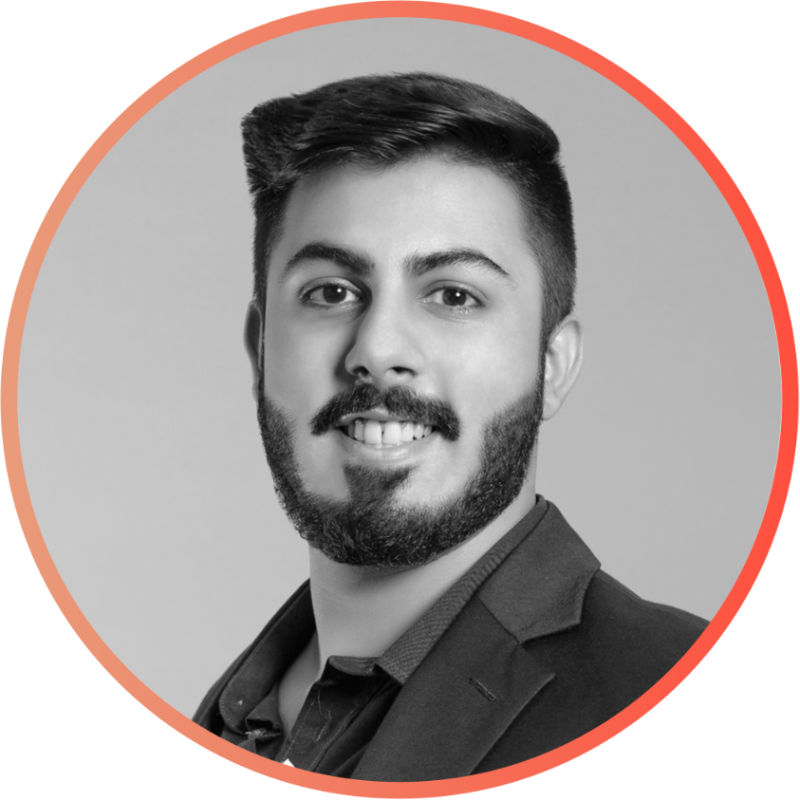
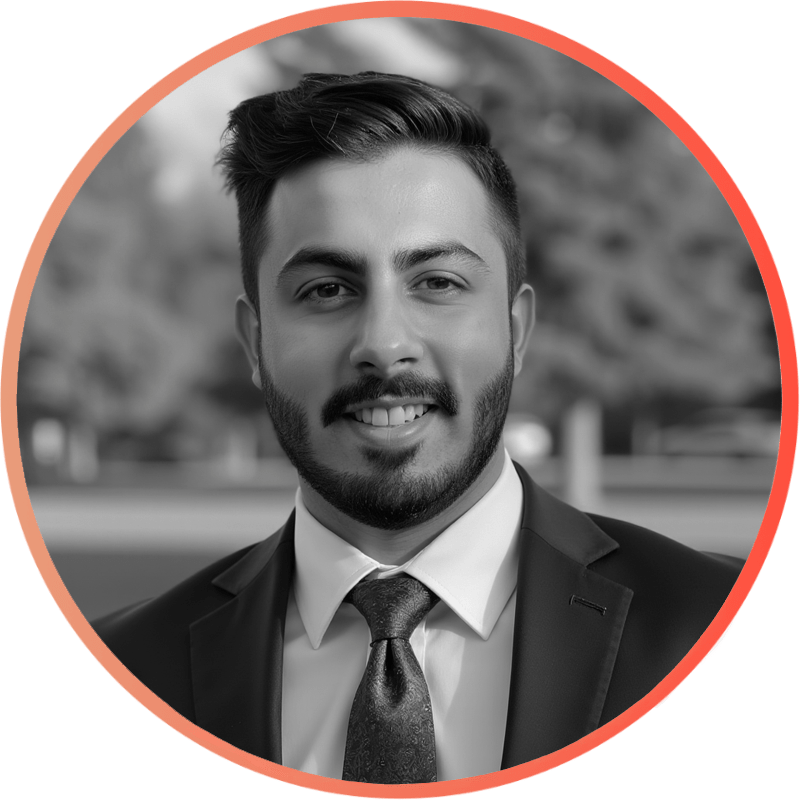
Simple textual changes

diff --git a/src/components/pages/HomePage/Data.ts b/src/components/pages/HomePage/Data.ts
@@ -30,11 +30,11 @@ import team6 from 'images/team6.png'
 export const heroSection = {
     lightText: true,
     lightTextDesc: true,
-    headline: 'solution leading you to your dream university.',
+    headline: 'platform guiding you toward your dream university.',
     highlight: ' one-stop ',
     description:
-        'Gradvisors® is a professional development organisation, providing tailored academic & career counselling solutions to aspiring students.',
-    buttonLabel: 'Get Started',
+        'Gradvisors™ is Pakistan’s 1st professional development organisation, offering tailored academic and career counselling to help students secure university admissions abroad and navigate Canadian immigration with confidence.',
+    buttonLabel: 'Book a session',
     imgStart: '',
     img: heroImg,
     alt: 'Academics',
@@ -56,38 +56,23 @@ export const team = [
     {
         image: team1,
         heading: 'Ali Aanish',
-        desc: 'Ali is the Founder and Chief Executive Officer of Gradvisors. His commendable journey to success is filled with examples of perseverance, commitment, and hard work. He’s well-versed in educational counselling, with hands-on experience in undergraduate and postgraduate admissions.',
+        desc: 'As Founder and Chief Executive Officer, he drives Gradvisors’ vision, strategy, and growth. From inception, he built the company’s systems, partnerships, and operations with a hands-on, results-driven approach. His insight into global education has positioned Gradvisors among the most trusted international education consultancies.',
     },
     {
         image: team2,
-        heading: 'Zoraiz Tauqeer',
-        desc: 'Zoraiz came up with his first business idea at the age of 13. In the decade that followed, he went on to work with numerous tech startups. Zoraiz worked as a business consultant for companies in the US and Canada, later forming Gradvisors.',
+        heading: 'Irfan Junejo',
+        desc: 'As Co-Founder and Chief Marketing Officer, he leads Gradvisors’ brand and digital storytelling. Through creative direction and authentic communication, he connects with students and strengthens the trust that defines Gradvisors’ identity.',
     },
     {
         image: team3,
-        heading: 'Misha Shahid',
-        desc: "Misha Shahid is a University of London Alumnus who recently graduated with a Master's degree in management from the University of Westminster. At Gradvisors, Misha develops and conducts courses to assist students with the preparation of tests such as IELTS; she is also a creative writing coach and a volunteer teacher trainer.",
-    },
-    {
-        image: team4,
-        heading: 'Hamna Azam',
-        desc: 'Hamna Azam is a LUMS graduate from the batch of 2021. Her background in Humanities and Social Sciences allows her to grasp and understand problems faced by students on a regular basis. As a Community Manager at Gradvisors, Hamna is responsible for connecting students with experts who can guide them.',
-    },
-    {
-        image: team5,
-        heading: 'Abdul Khaliq',
-        desc: 'Abdul Khaliq is a graduate from the Lahore School of Economics. As a Business Development Executive at Gradvisors, his responsibilities include student relationship management, as well as assisting the marketing team with managing social media and virtual student communities.',
-    },
-    {
-        image: team6,
-        heading: 'Minahil Raza',
-        desc: 'Minahil Raza is an aspiring ACCA qualified student and a vital member of the Gradvisors team. At Gradvisors, Minahil provides support with regards to curating written components of the university applications, critical to the success of our students.',
+        heading: 'Nabeera Ali Naqvi',
+        desc: 'As Co-Founder and Chief Operating Officer, she oversees operations to ensure every student receives expert guidance from application to visa. She leads the consulting teams, sets quality standards, and continually refines Gradvisors’ student-success framework.',
     },
 ]
 
 export const clients = {
     heading:
-        'Our students have received acceptances from universities all over the globe',
+        'Our students are shaping their futures at leading universities worldwide.',
     preHeading: 'Our Global Alumni Network',
     logos: [
         [client1, client2, client3, client4, client5, client6],

diff --git a/src/components/Navbar/Navbar.tsx b/src/components/Navbar/Navbar.tsx
@@ -85,7 +85,7 @@ const Navbar = () => {
                             <Link
                                 to={{
                                     pathname:
-                                        'https://studyabroad.gvisors.com/informationform',
+                                        'https://www.instagram.com/gvisors/',
                                 }}
                                 target="_blank"
                                 className="btn-link"
@@ -95,14 +95,14 @@ const Navbar = () => {
                                     buttonColor="secondary-gradient"
                                     buttonSize="btn--medium"
                                 >
-                                    Get in Touch
+                                    Get in touch
                                 </Button>
                             </Link>
                         ) : (
                             <Link
                                 to={{
                                     pathname:
-                                        'https://studyabroad.gvisors.com/informationform',
+                                        'https://www.instagram.com/gvisors/',
                                 }}
                                 target="_blank"
                                 className="btn-link"
@@ -112,7 +112,7 @@ const Navbar = () => {
                                     buttonStyle="btn--outline"
                                     buttonSize="btn--mobile"
                                 >
-                                    Get in Touch
+                                    Get in touch
                                 </Button>
                             </Link>
                         )}

diff --git a/src/components/ContactSection/Contact.tsx b/src/components/ContactSection/Contact.tsx
@@ -56,8 +56,7 @@ const Contact = ({ animationClass, animationDelay }: Props) => {
                                         target="_blank"
                                     >
                                         <span>
-                                            254/1, Sector G, Phase 5, DHA,
-                                            Lahore.
+                                            4th Floor, 12, CCA Sector C Phase 5 D.H.A, Lahore.
                                         </span>
                                     </Link>
                                 </div>

diff --git a/src/components/TeamSection/Team.tsx b/src/components/TeamSection/Team.tsx
@@ -98,7 +98,7 @@ const Team = ({
                     <div className="top-line secondary-gradient" />
                     <div className="stage">Brains behind the operation</div>
                     <h2 className="team__heading" data-aos={animationClass}>
-                        Meet our Team
+                        Meet our founders
                     </h2>
                     <div className="team__container">
                         <div className="team__container-row">

diff --git a/src/components/FooterSection/Footer.tsx b/src/components/FooterSection/Footer.tsx
@@ -129,7 +129,7 @@ const Footer = ({ about, quickLinks }: Props) => {
                 </div>
             </div>
             <div className="footer__copyright primary-gradient">
-                <p>© 2021 Gradvisors Pvt. Ltd | Site by Algotrix</p>
+                <p>© 2019 Gradvisors<sup>™</sup></p>
             </div>
         </div>
     )
